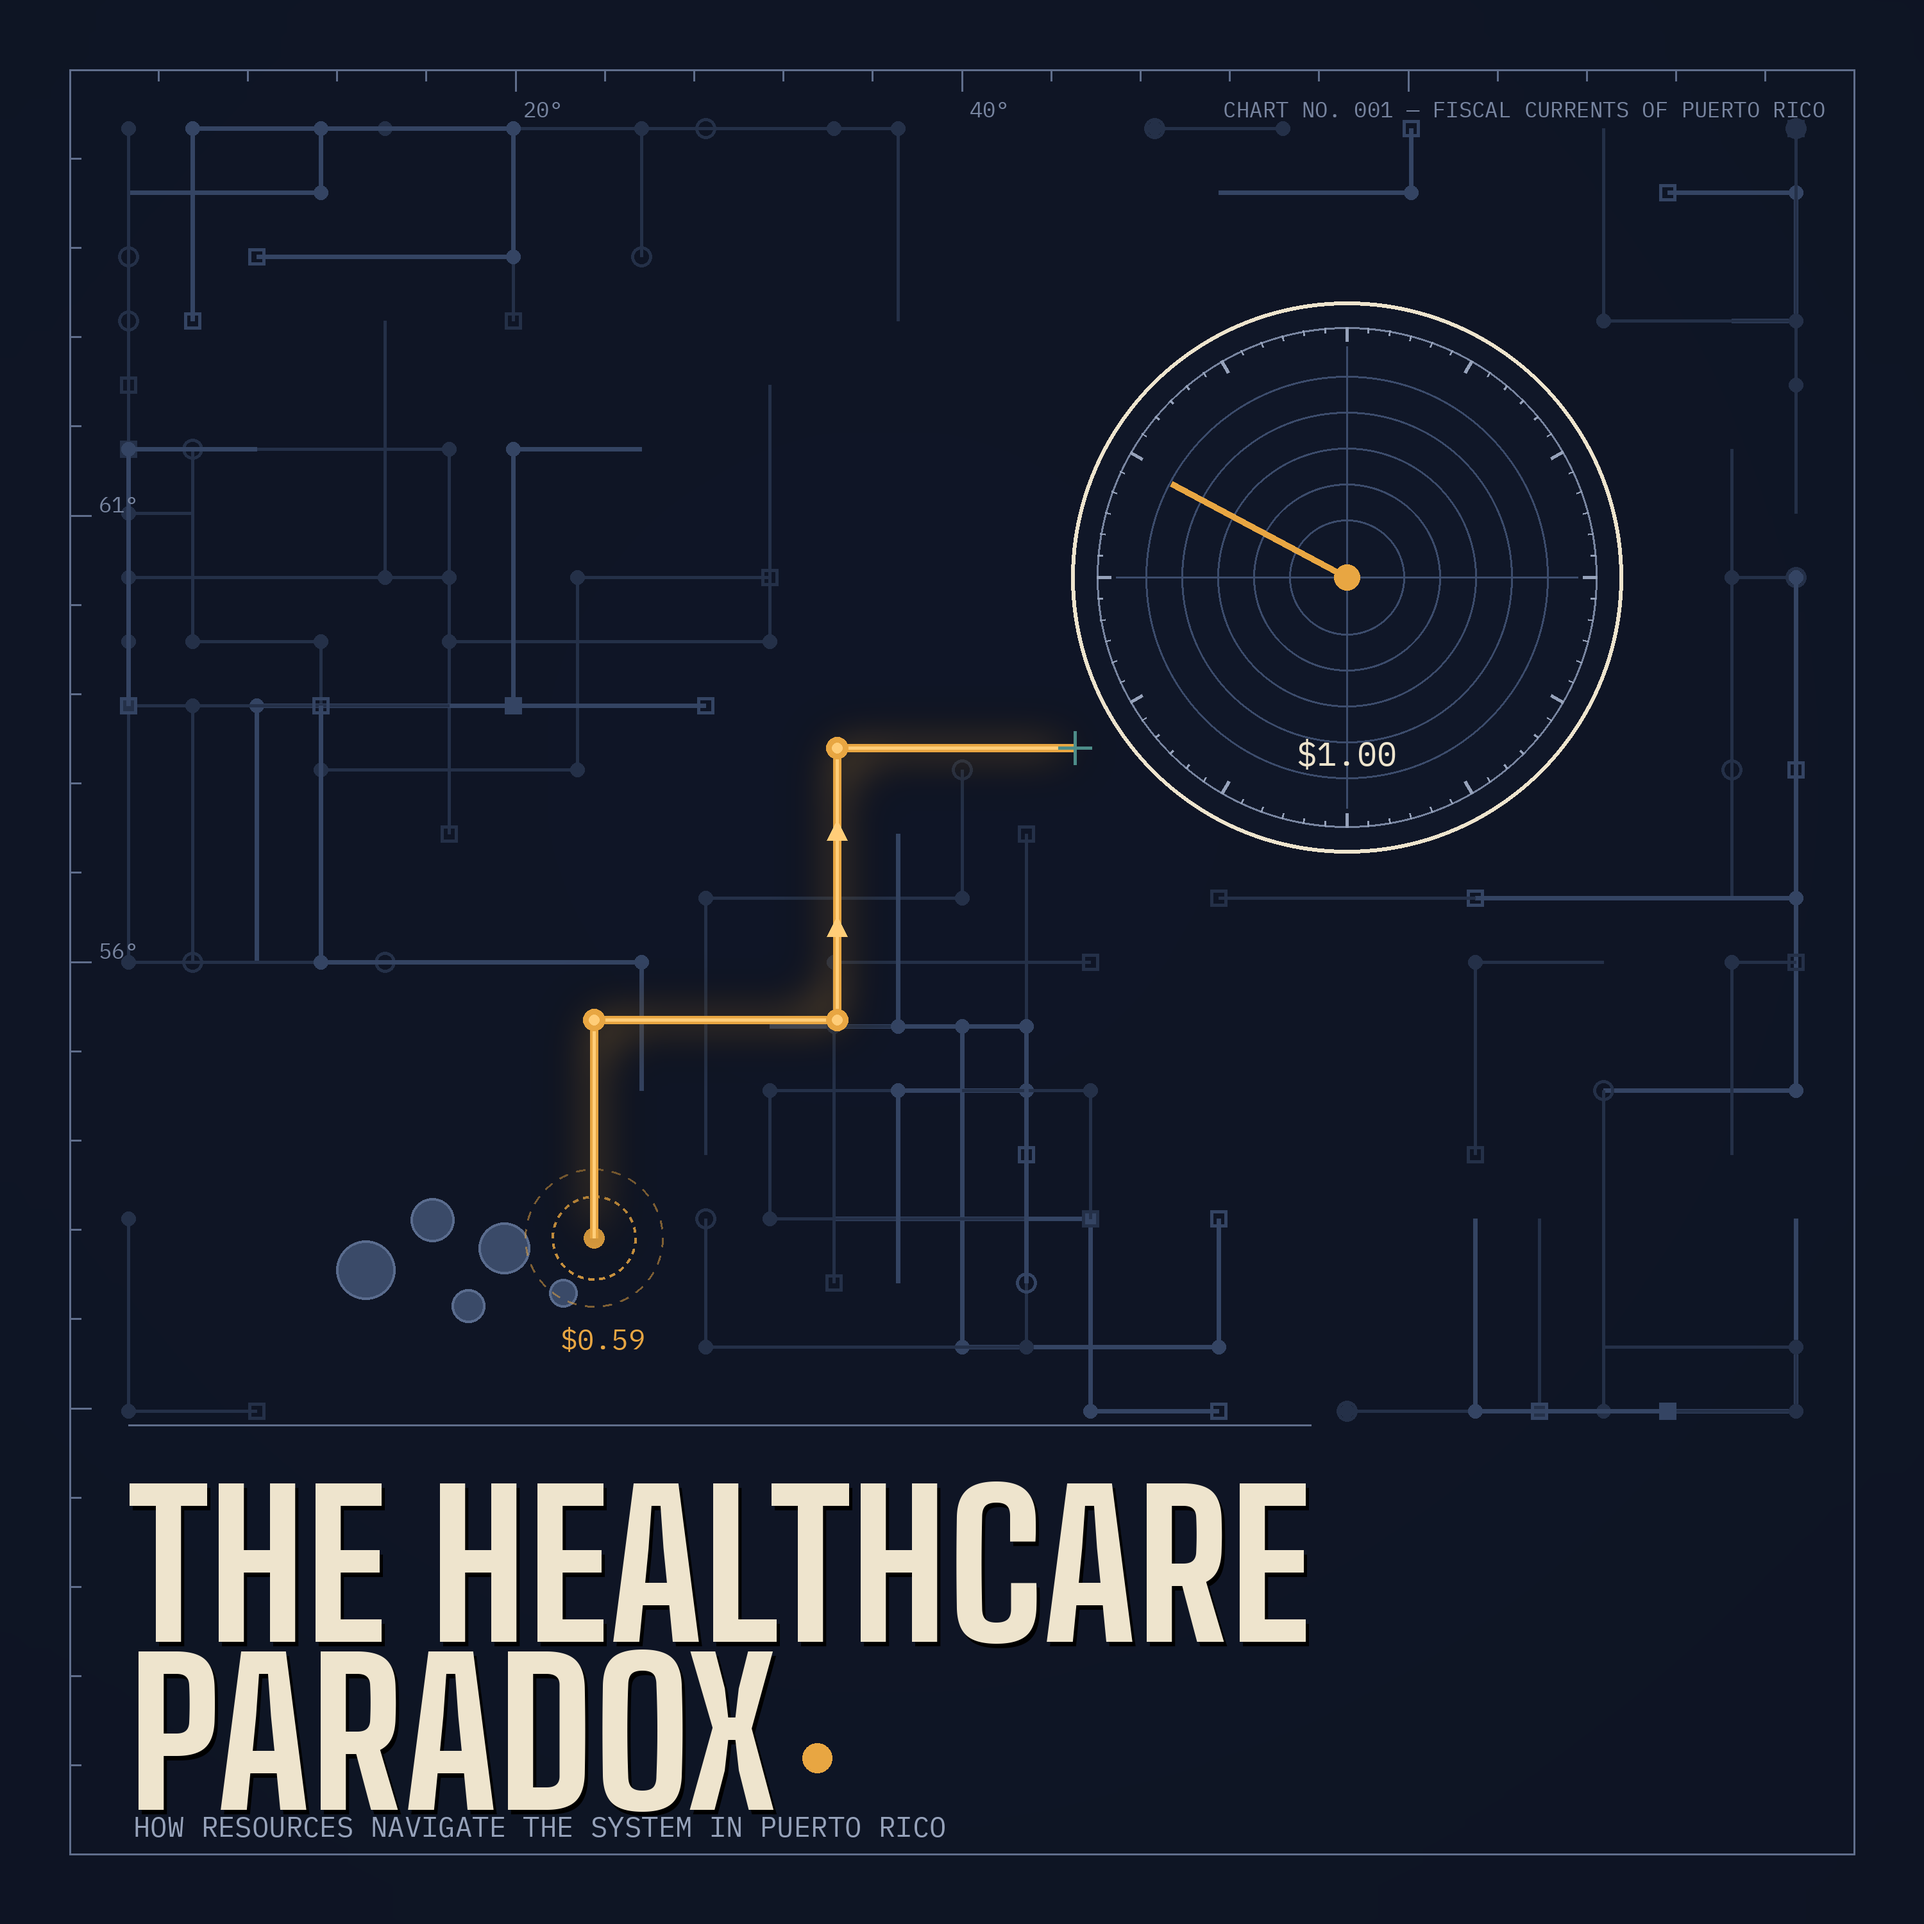
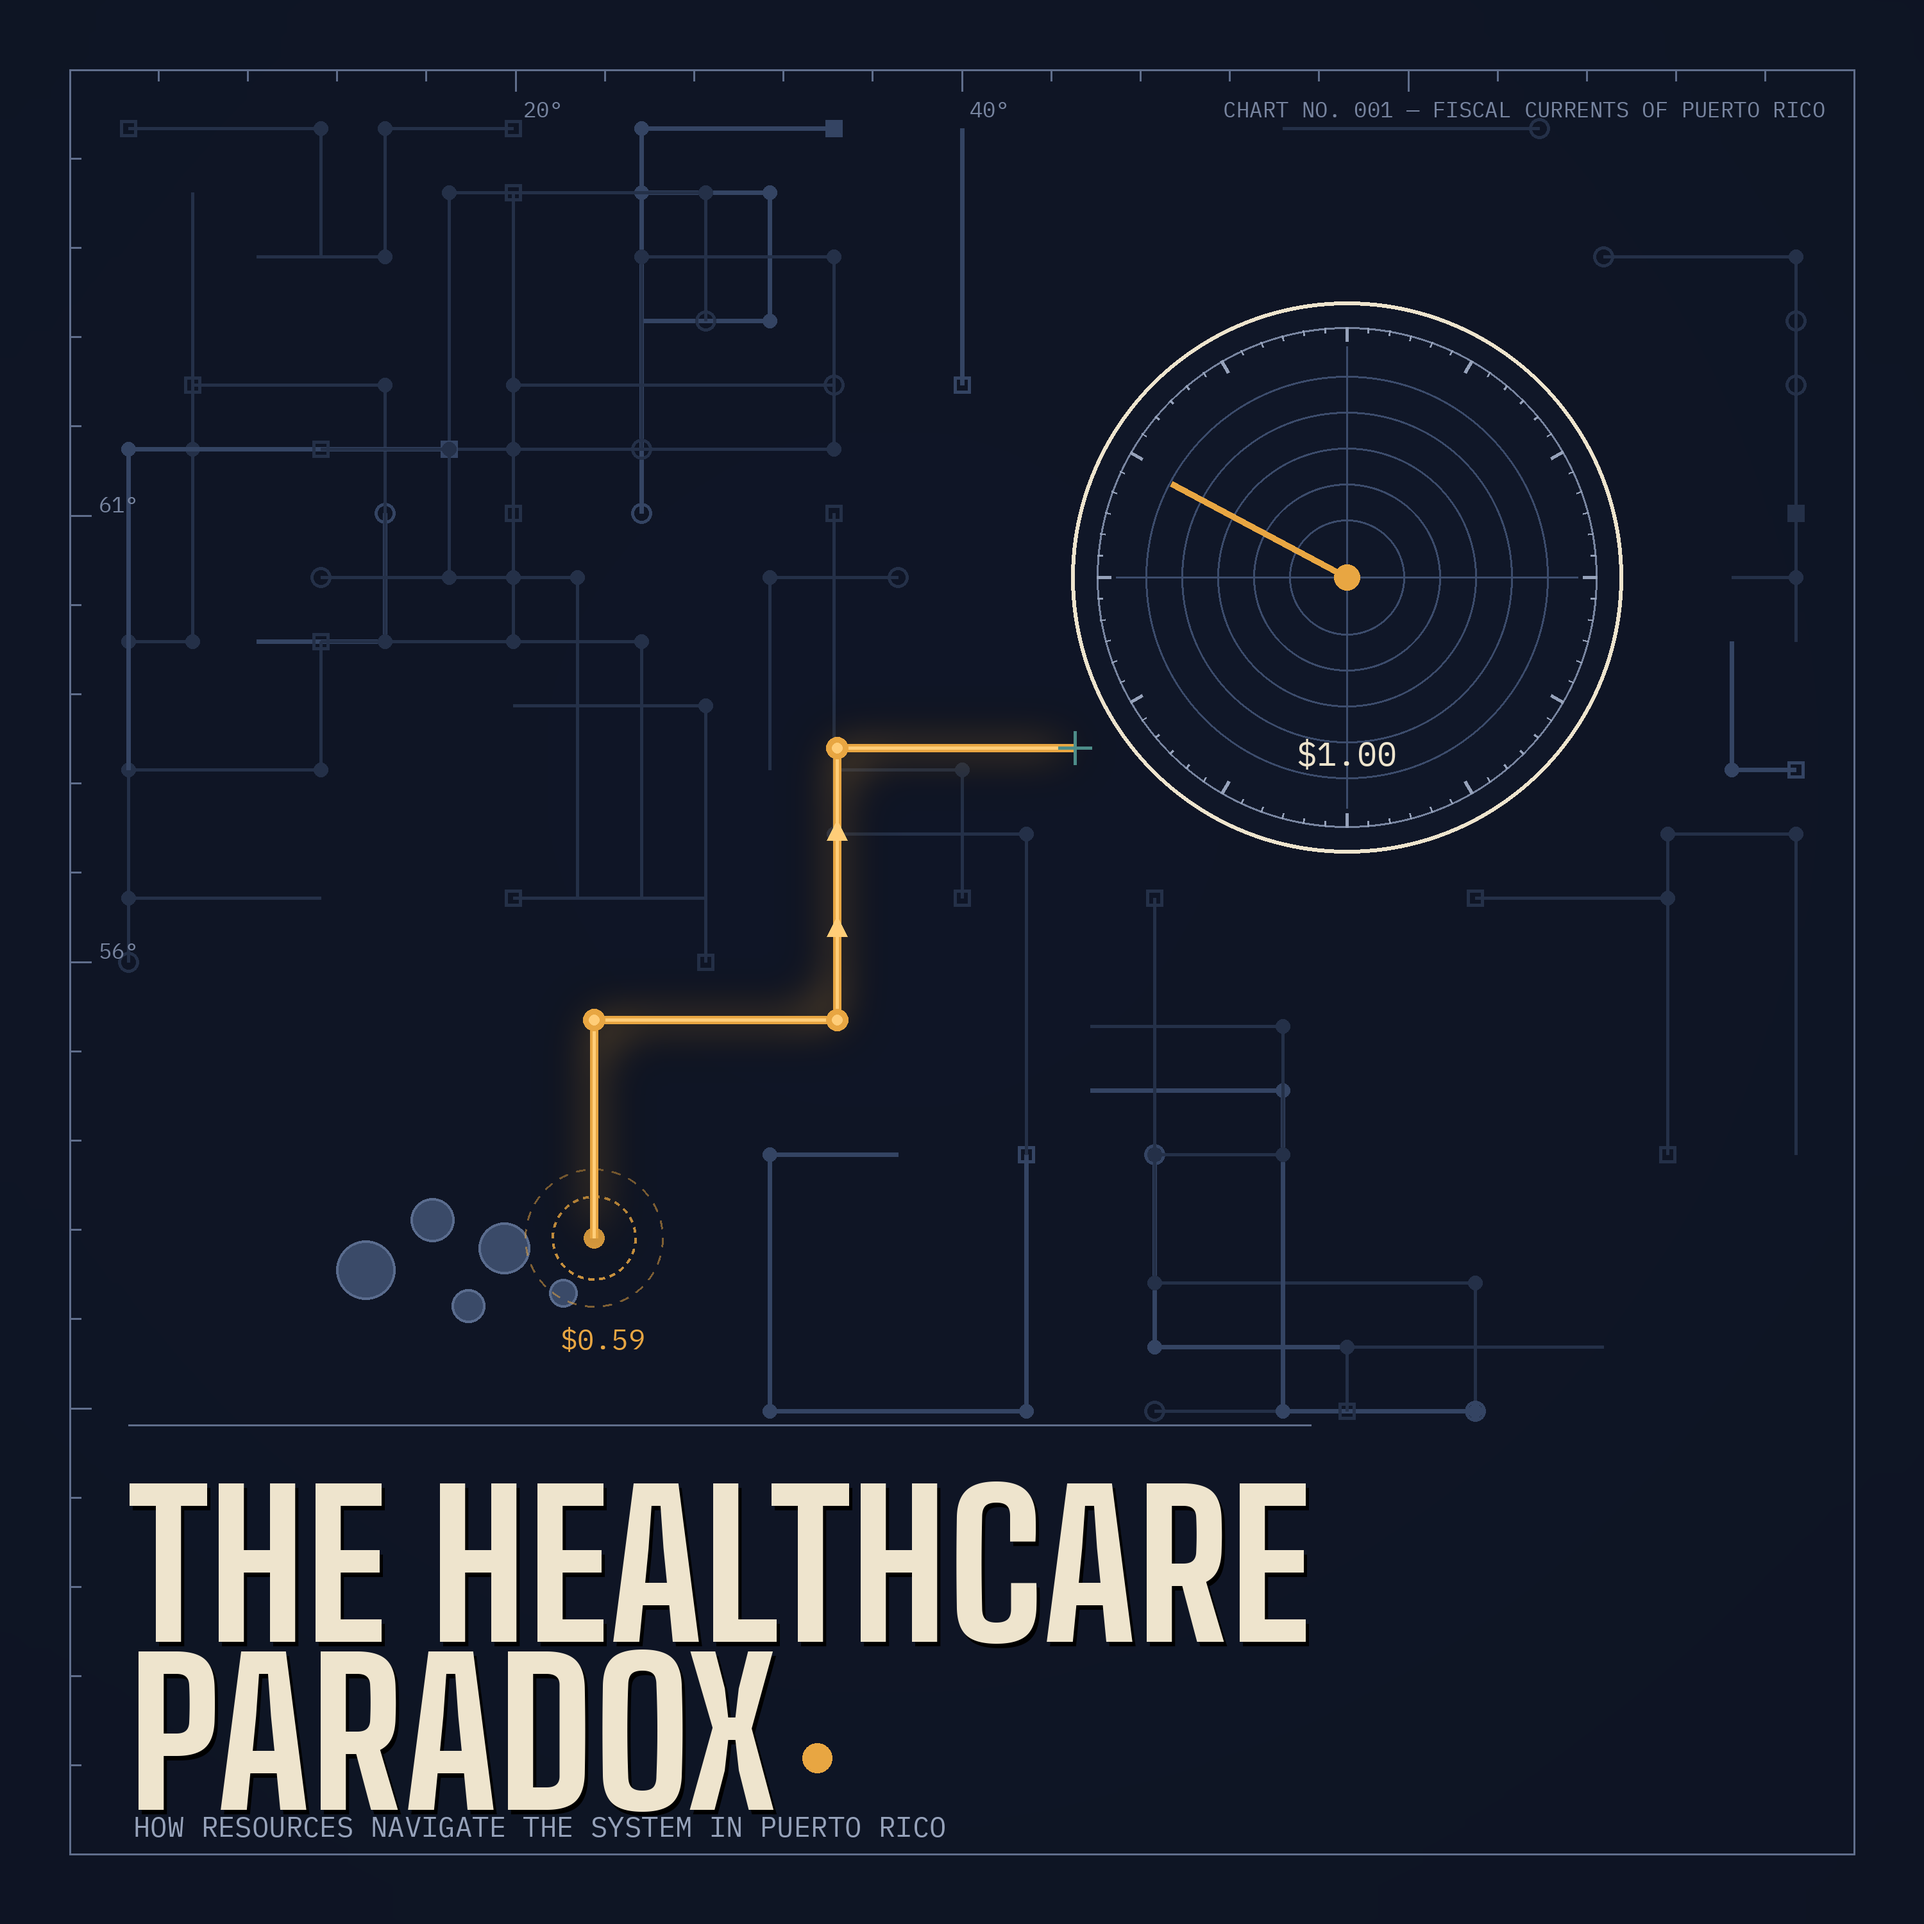
Regenerate cover lattice with a new seed
Airier composition; the amber route reads more clearly.

Claude-Session: https://claude.ai/code/session_01VAB5PzjvL1ddaUSN2kmF8U

diff --git a/scripts/make_cover.py b/scripts/make_cover.py
@@ -23,7 +23,7 @@ AMBER = (232, 166, 66)      # the sounding current
 AMBER_HI = (255, 205, 120)
 TEAL = (77, 141, 137)       # secondary accent
 
-random.seed(41)
+random.seed(7)
 
 
 def font(name, size):
